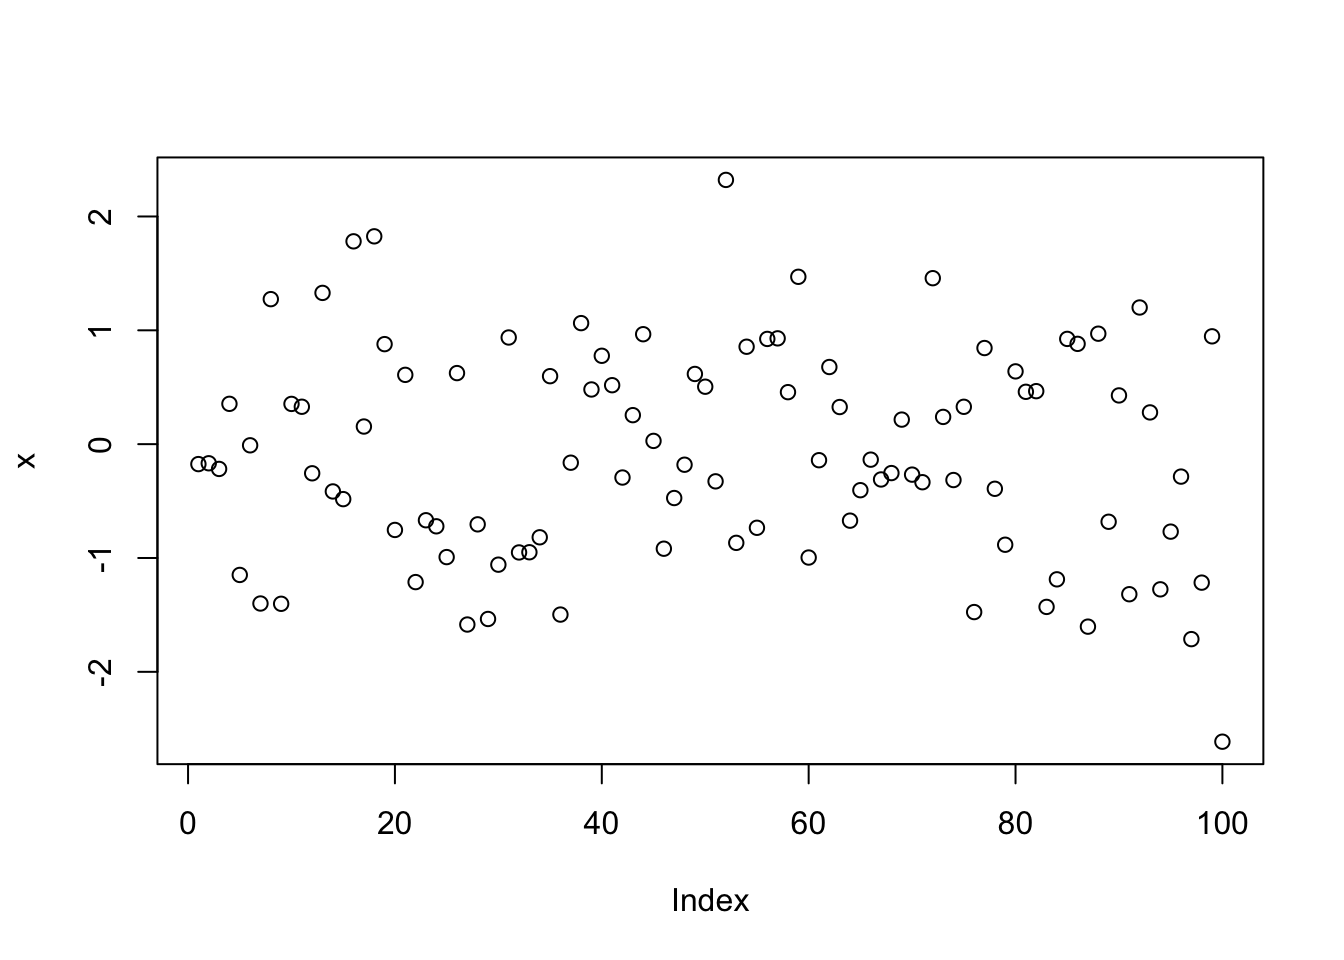
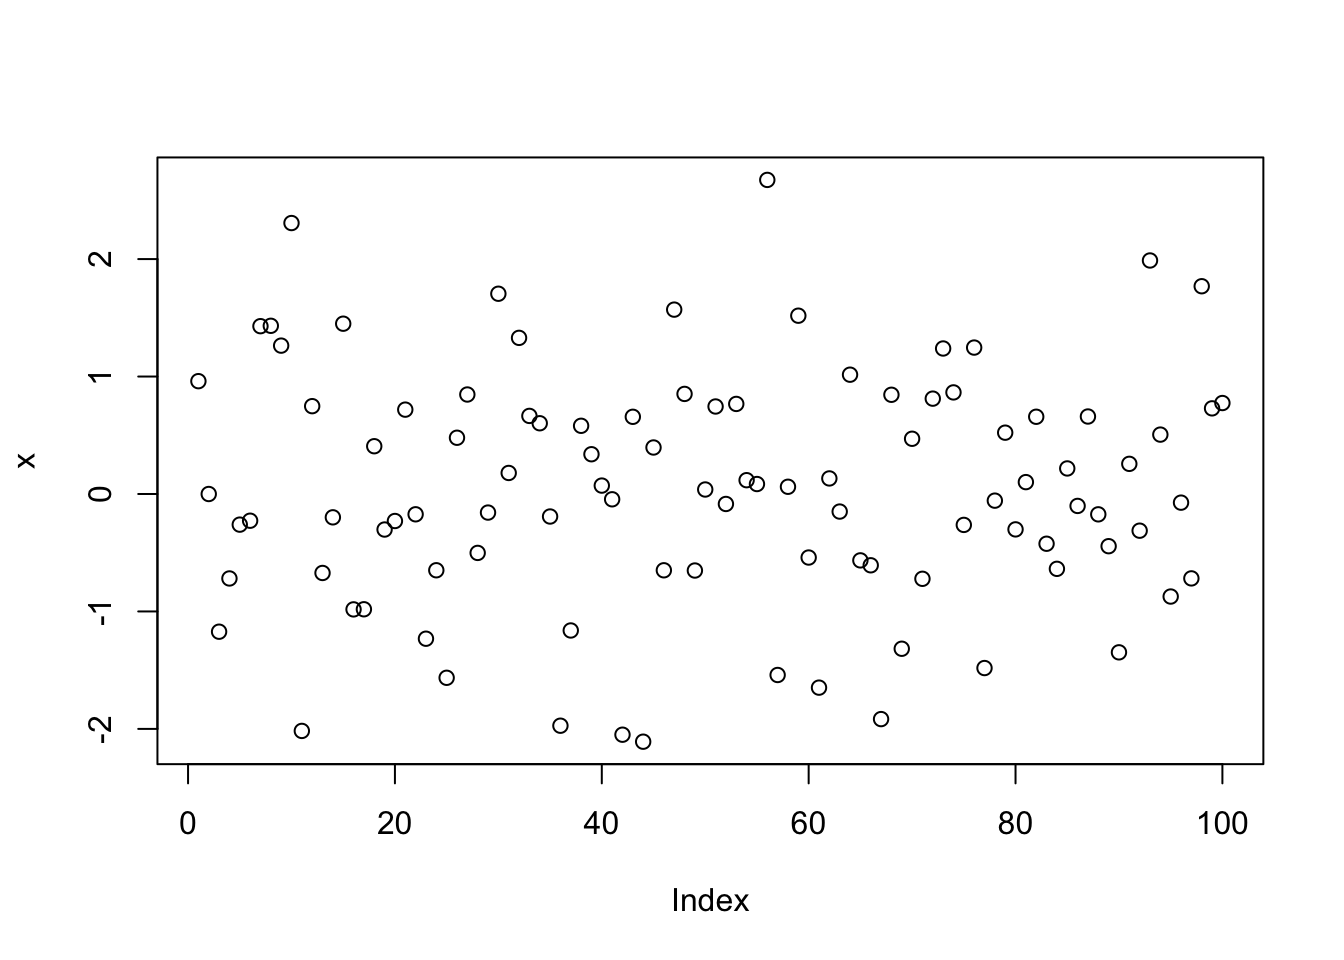
Trying to fix the new paragraph bug

diff --git a/_site/members.html b/_site/members.html
@@ -622,7 +622,7 @@ Jonathan is a PhD student studying how brain connectivity changes across aging a
 </a>
 </div>
 </div>
-<div class="quarto-post image-left" data-index="1" data-listing-file-modified-sort="1778104132151" data-listing-reading-time-sort="1" data-listing-word-count-sort="66">
+<div class="quarto-post image-left" data-index="1" data-listing-file-modified-sort="1778104499345" data-listing-reading-time-sort="1" data-listing-word-count-sort="68">
 <div class="thumbnail"><a href="./members/gabri.html" class="no-external">
 
 <p class="card-img-top"><img loading='lazy' src="members/images/gabi.png"  class="thumbnail-image card-img"/></p>
@@ -636,7 +636,8 @@ Jonathan is a PhD student studying how brain connectivity changes across aging a
 <a href="./members/gabri.html" class="no-external">Phd Student</a>
 </div>
 <div class="delink listing-description"><a href="./members/gabri.html" class="no-external">
-Gabriele joined the lab in 2023 September after graduating with a degree in Molecular Cell Biology. With a background in wet-lab biology, she now applies single-cell transcriptomics and computational approaches to study cellular and molecular mechanisms of Alzheimer’s disease.
+Gabriele joined the lab in 2023 September after graduating with a degree in Molecular Cell Biology. With a background in wet-lab biology, she now applies single-cell transcriptomics and computational approaches to study cellular and molecular mechanisms of Alzheimer’s disease.<br>
+In her free time, Gabriele enjoys sailing, both recreationally and competitively, having sailed all over Europe and with dreams to one day make a journey across the Atlantic.
 </a></div>
 </div>
 <div class="metadata">

diff --git a/_site/members/gabri.html b/_site/members/gabri.html
@@ -318,8 +318,8 @@ ul.task-list li input[type="checkbox"] {
 </header>
   </div>
   <div class="about-contents"><div id="hero-heading">
-<p>Gabriele joined the lab in 2023 September after graduating with a degree in Molecular Cell Biology. With a background in wet-lab biology, she now applies single-cell transcriptomics and computational approaches to study cellular and molecular mechanisms of Alzheimer’s disease.</p>
-<p>In her free time, Gabriele enjoys sailing, both recreationally and competitively, having sailed all over Europe and with dreams to one day make a journey across the Atlantic.</p>
+<p>Gabriele joined the lab in 2023 September after graduating with a degree in Molecular Cell Biology. With a background in wet-lab biology, she now applies single-cell transcriptomics and computational approaches to study cellular and molecular mechanisms of Alzheimer’s disease.<br>
+In her free time, Gabriele enjoys sailing, both recreationally and competitively, having sailed all over Europe and with dreams to one day make a journey across the Atlantic.</p>
 </div></div>
 </div>
 